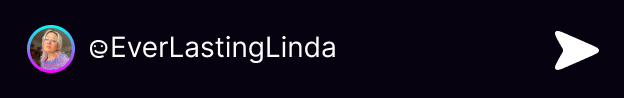
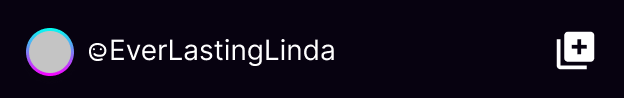
fixat kamera1111

Changed region(s): [[0.0304, 0.2449, 0.5481, 0.7959], [0.883, 0.3061, 0.9744, 0.7347]]

diff --git a/src/Browsephotos.jsx b/src/Browsephotos.jsx
@@ -1,6 +1,8 @@
 import React, { useState } from 'react';
 import { useLocation, useNavigate } from 'react-router-dom';
 import SwipeableViews from 'react-swipeable-views-react-18-fix';
+import pickPhoto from './images/pick-photo.png';
+
 
 
 const PhotosComponent = () => {
@@ -21,10 +23,17 @@ const PhotosComponent = () => {
   };
 
   return (
-    <div style={{ maxWidth: "100%", minHeight: '100vh', overflow: 'hidden', backgroundColor: 'black' }}>
+    <div style={{ 
+  maxWidth: "100%", 
+  minHeight: '100vh', 
+  overflow: 'hidden', 
+  backgroundColor: 'black',
+}}>
+<img src={pickPhoto} className='pickphoto-overlay'></img>
+
       <SwipeableViews enableMouseEvents>
         {savedPhotos.map((photoUrl, index) => (
-          <div key={index} style={{ backgroundColor: 'black', position: 'relative' }}>
+          <div key={index} style={{ position: 'relative' }}>
             <img className='mirror' style={{ maxWidth: "100vw", paddingTop: '50%' }} src={photoUrl} alt={`Photo ${index}`} />
             <button
               style={{ position: 'absolute', bottom: '10px', left: '50%', transform: 'translateX(-50%)', padding: '10px', borderRadius: '5px', background: 'white', color: 'black', border: 'none', cursor: 'pointer' }}

diff --git a/src/AppLayoutHome.jsx b/src/AppLayoutHome.jsx
@@ -8,6 +8,7 @@ import rightColumn from './images/vaka_stream_overlay.webm';
 import React, { useState } from 'react';
 import pic1 from './images/profilepic.png';
 import pic1entry from './images/entry.png';
+import newPost from './images/new-post.png';
 import { Link } from 'react-router-dom';
 import tallImage from './images/vid.mp4';
 import VideoRecorder from './VideoRecord';
@@ -89,15 +90,13 @@ const AppLayout = ({ children }) => {
       
         <Link to="/camura" style={{
           position: 'sticky',
-          marginLeft: '150px',
-          marginRight: '150px',
-          bottom: 10,
-          borderRadius: '50%',
-          height: '50px',
-          backgroundColor: 'red',
-          boxShadow: '0px 0px 10px rgba(0,0,0,0.5)',
-        }}><div
-        ></div></Link>
+          bottom: 20,
+        }}><img src={newPost} style={{
+          position: 'sticky',
+          marginLeft: '137px',
+          width: '70px',
+        }}></img>
+        </Link>
 
 
 

diff --git a/src/AppLayout.jsx b/src/AppLayout.jsx
@@ -10,6 +10,7 @@ import React, { useState } from 'react';
 
 const AppLayout = ({ children }) => {
     const [isFullscreen, setIsFullscreen] = useState(false);
+    const [isStopStream, setStopStream] = useState(false);
     function toggleFullscreen() {
       if (!document.fullscreenElement) {
         document.documentElement.requestFullscreen();
@@ -21,6 +22,7 @@ const AppLayout = ({ children }) => {
         }
       }
     }
+ 
    
   return (
     <div className='wrapper'>

diff --git a/src/Photocam.jsx b/src/Photocam.jsx
@@ -6,6 +6,7 @@ import bottomRec from './images/bottombar-recording.png'
 import bottomRec2 from './images/bottombar-recording2.png'
 import bottomRec3 from './images/bottombar-recording3.png'
 import bottomBar from './images/bottom-bar_photo.png'
+import flip from './images/flip.png'
 import bottomBarPost from './images/bottom-bar_photo-post.png'
 import { useNavigate, Link, useLocation } from 'react-router-dom';
 import './Photocam.css';

diff --git a/src/App.css b/src/App.css
@@ -304,3 +304,10 @@ a {
   transform: scaleX(-1); /* Flip horizontally */
 
 }
+
+.pickphoto-overlay {
+  position: absolute;
+  max-width:100%;
+  top:0px;
+  left:0px;
+}

diff --git a/src/Photocam.css b/src/Photocam.css
@@ -19,3 +19,4 @@
 
 }
 
+
